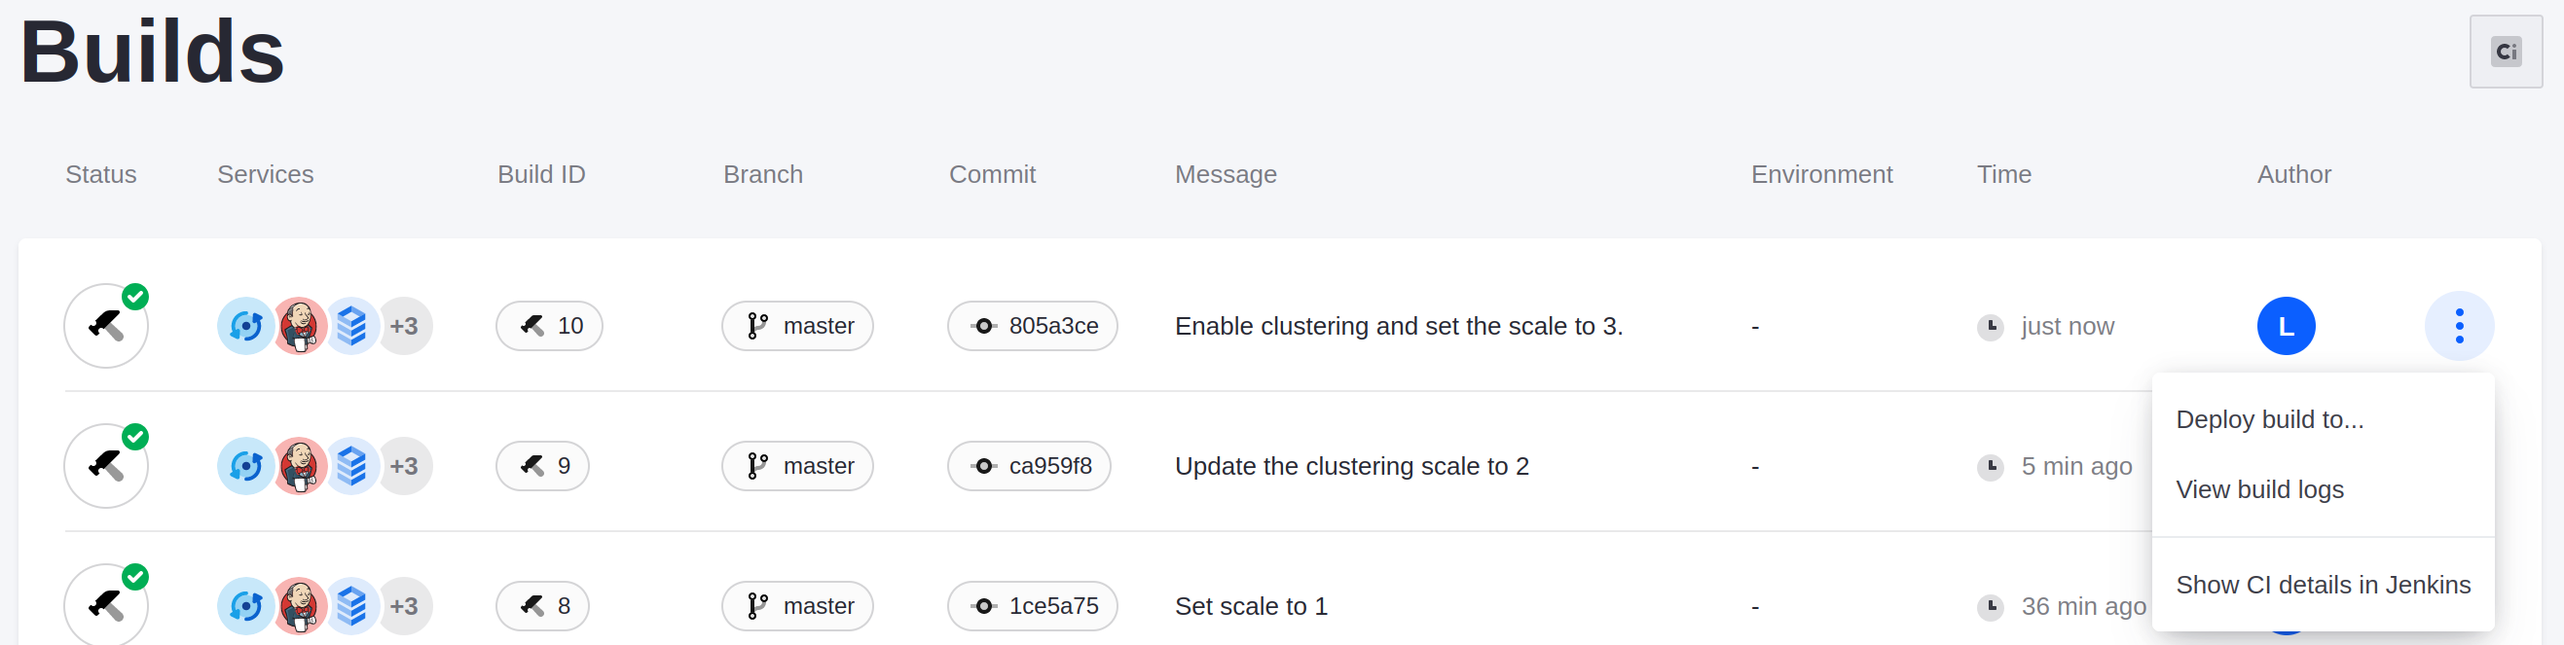
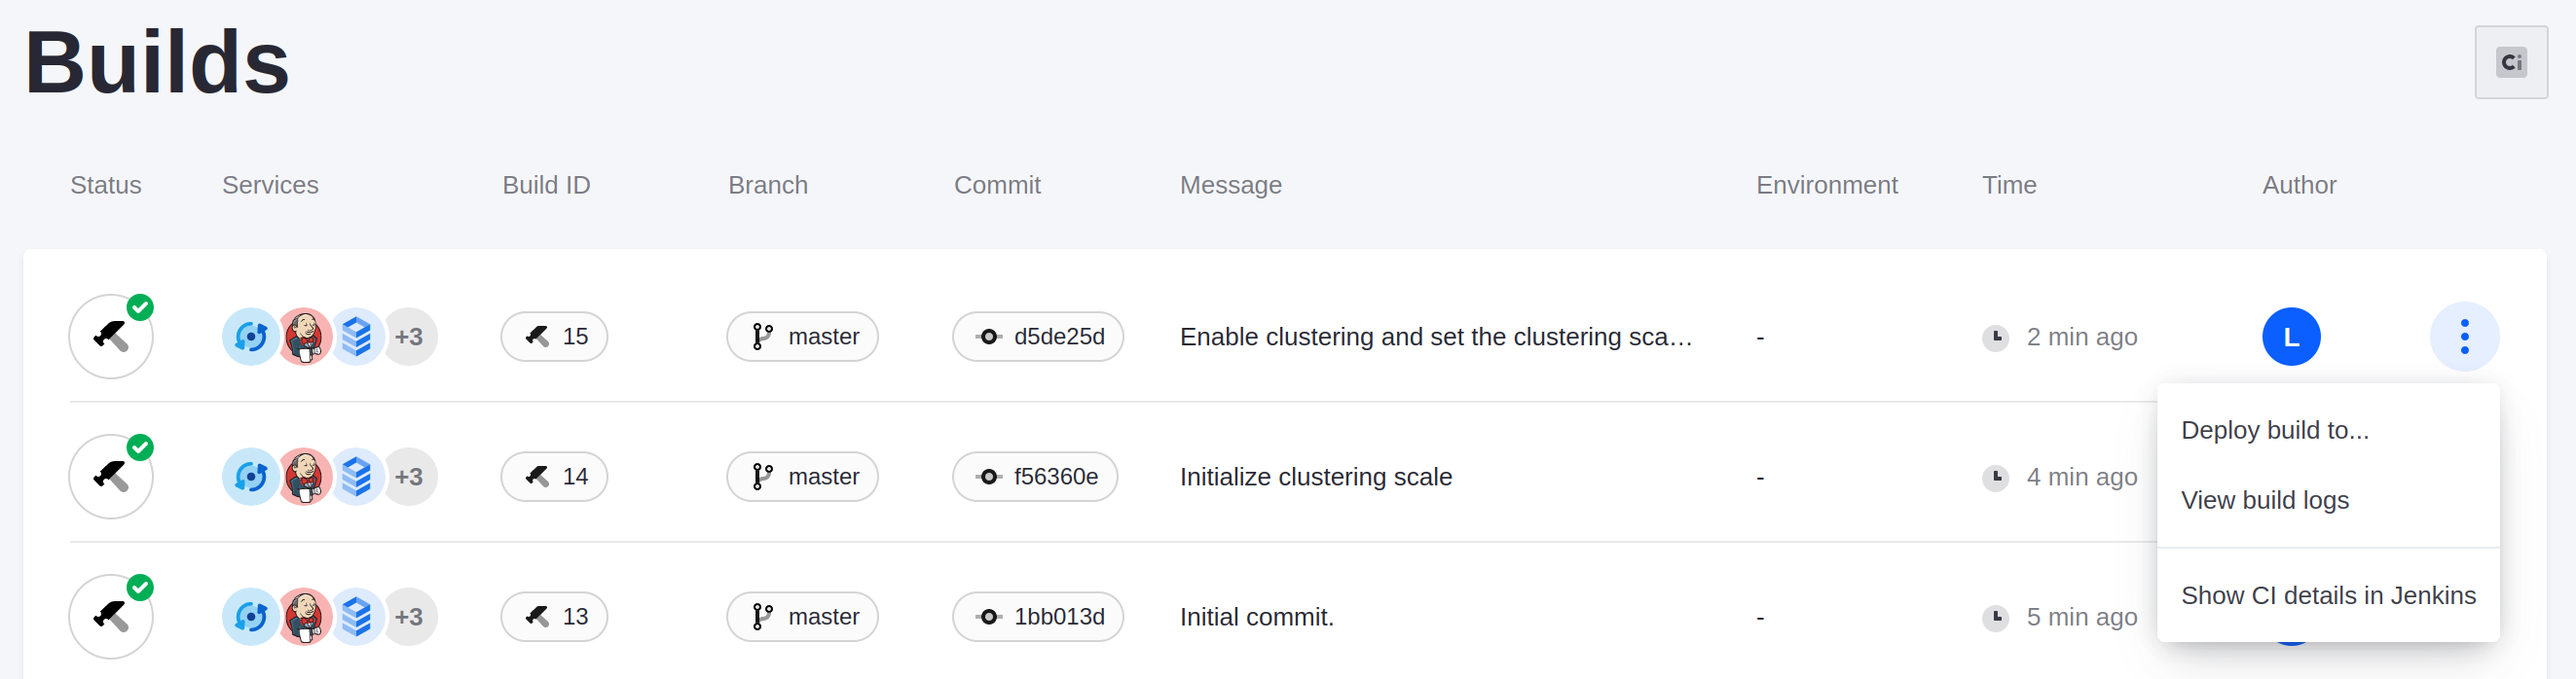
LRDOCS-11613, LRDOCS-11614 Reduce clustering scale to 2 (to minimize extra provisioning needed for the exercise)

diff --git a/docs/courses/latest/en/liferay-administrator/cloud-administrator/cloud-setup-and-management/setting-up-clustering-for-the-liferay-service.md b/docs/courses/latest/en/liferay-administrator/cloud-administrator/cloud-setup-and-management/setting-up-clustering-for-the-liferay-service.md
@@ -3,7 +3,7 @@ uuid: c1dd2bde-e995-4b03-88e1-8e15adeb7b17
 ---
 # Setting Up Clustering for the Liferay Service
 
-Because Delectable Bonsai's website draws millions of views, it must be clustered to handle the traffic. Here, you'll learn how to configure a three node cluster of the production environment.
+Because Delectable Bonsai's website draws millions of views, it must be clustered to handle the traffic. Here, you'll learn how to configure a two-node cluster of the production environment.
 
 ```{important}
 You must have an extra Liferay DXP instance provisioned as an add-on for your Liferay Cloud project so that you can cluster your Liferay service and add another node to it. Contact your Liferay account manager for details.
@@ -57,21 +57,21 @@ Enable clustering and set the scale value in your Liferay service's configuratio
     lcp deploy --project=[project-name] --environment=prd
     ```
 
-The Liferay service restarts with clustering enabled and the `scale` variable initialized. However, the scale is still set to only one node. Continue to update the scale to the desired three nodes.
+The Liferay service restarts with clustering enabled and the `scale` variable initialized. However, the scale is still set to only one node. Continue to update the scale to the desired two nodes.
 
 ## Update the Clustering Scale
 
-Now that you have initialized the clustering scale, update it to three nodes and create a new build to deploy it.
+Now that you have initialized the clustering scale, update it to two nodes and create a new build to deploy it.
 
 1. In your project repository, navigate to the `liferay/` folder and open the `LCP.json` file.
 
-1. Update the value of the `scale` property to `3`.
+1. Update the value of the `scale` property to `2`.
 
    ```json
     {
         "kind": "Deployment",
         "id": "liferay",
-        "scale": 3
+        "scale": 2
     }
    ```
 
@@ -82,7 +82,7 @@ Now that you have initialized the clustering scale, update it to three nodes and
    ```
 
    ```bash
-   git commit -m "Enable clustering and set the clustering scale to 3."
+   git commit -m "Enable clustering and set the clustering scale to 2."
    ```
 
    ```bash
@@ -111,7 +111,7 @@ Now that you have the necessary configuration for clustering, deploy the configu
 
 1. Click *Deploy Build*.
 
-Once your services restart, clustering is enabled, and you have three nodes of the Liferay service.
+Once your services restart, clustering is enabled, and you have two nodes of the Liferay service.
 
 Next, you'll configure the Liferay service to auto-scale for even more instances when they are needed.
 

diff --git a/docs/courses/latest/en/liferay-administrator/cloud-administrator/cloud-setup-and-management/configuring-auto-scaling.md b/docs/courses/latest/en/liferay-administrator/cloud-administrator/cloud-setup-and-management/configuring-auto-scaling.md
@@ -25,7 +25,7 @@ Use the Liferay Cloud console to enable auto-scaling for your production environ
 
 1. Click *Enable Auto Scaling*.
 
-Auto-scaling is now enabled. You have a minimum of three nodes because of your clustering configuration, and if usage increases, more nodes are added up to the default maximum of ten.
+Auto-scaling is now enabled. You have a minimum of two nodes because of your clustering configuration, and if usage increases, more nodes are added up to the default maximum of ten.
 
 ## Set the Maximum Number of Instances
 
